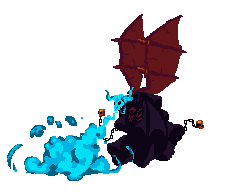
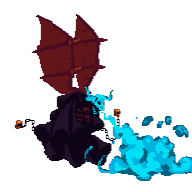
hi new unit

diff --git a/classes/class_functions.py b/classes/class_functions.py
@@ -9,7 +9,7 @@ from classes.units import tank
 from classes.units import princess
 from classes.units import necromancer
 from classes.units import paladin
-
+from classes.units import marchosias
 import resources.images as images
 
 # IMPORTANT: UPDATE THIS WHEN ADDING A NEW CLASS
@@ -20,7 +20,8 @@ unit_dict = {
     "Tank": "Tank",
     "Princess": "Able to heal and regen Mana for teammate, but get more damage by other",
     "Necromancer": "Powerful mage with high intelligence and magic resistance",
-    "Paladin": "Holy Knight that can heal and deal more damage to Undead"
+    "Paladin": "Holy Knight that can heal and deal more damage to Undead",
+    "Marchosias": "A demon from hell"
 }
 
 unitrace_dict = {
@@ -30,7 +31,9 @@ unitrace_dict = {
     "Tank": f"{tank.race}",
     "Princess": f"{princess.race}",
     "Necromancer": f"{necromancer.race}",
-    "Paladin" : f"{paladin.race}"
+    "Paladin" : f"{paladin.race}",
+    "Marchosias": f"{marchosias.race}"
+
 }
 
 stat_dict = {
@@ -40,7 +43,8 @@ stat_dict = {
     "Tank": f"STR: {tank.STRENGTH[0]:<5} INT: {tank.INTELLIGENCE[0]:<5} DEF: {tank.DEFENCE[0]:<5} MR: {tank.MAGIC_RESIST[0]:<5}",
     "Princess": f"STR: {princess.STRENGTH[0]:<5} INT: {princess.INTELLIGENCE[0]:<5} DEF: {princess.DEFENCE[0]:<5} MR: {princess.MAGIC_RESIST[0]:<5}",
     "Necromancer": f"STR: {necromancer.STRENGTH[0]:<5} INT: {necromancer.INTELLIGENCE[0]:<5} DEF: {necromancer.DEFENCE[0]:<5} MR: {necromancer.MAGIC_RESIST[0]:<5}",
-    "Paladin": f"STR: {paladin.STRENGTH[0]:<5} INT: {paladin.INTELLIGENCE[0]:<5} DEF: {paladin.DEFENCE[0]:<5} MR: {paladin.MAGIC_RESIST[0]:<5}"
+    "Paladin": f"STR: {paladin.STRENGTH[0]:<5} INT: {paladin.INTELLIGENCE[0]:<5} DEF: {paladin.DEFENCE[0]:<5} MR: {paladin.MAGIC_RESIST[0]:<5}",
+    "Marchosias": f"STR: {marchosias.STRENGTH[0]:<5} INT: {marchosias.INTELLIGENCE[0]:<5} DEF: {marchosias.DEFENCE[0]:<5} MR: {marchosias.MAGIC_RESIST[0]:<5}"
 }
 
 
@@ -52,6 +56,7 @@ marketing_images = {
     "Princess": images.princess_marketing,
     "Necromancer": images.necromancer_marketing,
     "Paladin": images.paladin_marketing,
+    "Marchosias": images.marchosias_marketing
 }
 
 
@@ -97,6 +102,8 @@ def create_unit(name, unit_class, team, game, standalone=False):
         case "Paladin":
             unit = paladin.Paladin(name, team, game)
 
+        case "Marchosias":
+            unit = marchosias.Marchosias(name, team, game)
         case _:
             raise Exception(
                 f"An error has occured while creating Unit objects. (Class [{unit_class}] does not exist)"

diff --git a/classes/units/marchosias.py b/classes/units/marchosias.py
@@ -1,0 +1,55 @@
+import pygame, random, math
+
+from classes.unit import Unit
+import gui.ui_functions as ui_functions
+
+# Range of values
+STRENGTH = (15, 15)
+INTELLIGENCE = (18, 18)
+DEFENCE = (80, 80)
+MAGIC_RESIST = (90, 90)
+race = "Demon"
+
+
+class Marchosias(Unit):
+    def __init__(self, name, team, game=None):
+        super().__init__(name, team)
+        self.game = game
+
+        self.unit_class = "Marchosias"
+        self.race = race
+
+        self.name = name
+        self.team = team
+
+        self.strength = random.randint(*STRENGTH)
+        self.intelligence = random.randint(*INTELLIGENCE)
+        self.defence = random.randint(*DEFENCE)
+        self.magic_resist = random.randint(*MAGIC_RESIST)
+
+        self.size_scale = 1
+
+        if self.team == "enemy":
+            self.direction = "left"
+
+        self.load_animations()
+        self.load_sounds()
+
+        self.image = self.animations["idle"][0]
+        self.rect = self.image.get_rect()
+        self.rect.center = self.position
+
+        self.move_desc["Passive "] = (
+            "Demon "
+        )
+
+
+
+    def level_stats(self):
+        self.health += self.max_health / 10
+        self.strength += 2
+        self.intelligence += 10
+        self.defence += 5
+        self.magic_resist += 2
+
+ 

diff --git a/resources/images.py b/resources/images.py
@@ -41,3 +41,4 @@ tank_marketing = pygame.image.load(f"{Path('resources/images/units/Tank/tank_mar
 princess_marketing = pygame.image.load(f"{Path('resources/images/units/Princess/prinsborder.jpeg')}").convert()
 necromancer_marketing = pygame.image.load(f"{Path('resources/images/units/Necromancer/necromancer_marketing.jpg')}").convert()
 paladin_marketing = pygame.image.load(f"{Path('resources/images/units/Paladin/paladinborder.jpg')}").convert()
+marchosias_marketing = pygame.image.load(f"{Path('resources/images/units/Marchosias/marchosiasborder.jpg')}").convert()

diff --git a/classes/units/warrior.py b/classes/units/warrior.py
@@ -9,7 +9,7 @@ STRENGTH = (16, 16)
 INTELLIGENCE = (8, 8)
 DEFENCE = (90, 90)
 MAGIC_RESIST = (75, 75)
-race = "Human"
+race = "Demon"
 
 
 class Warrior(Unit):
